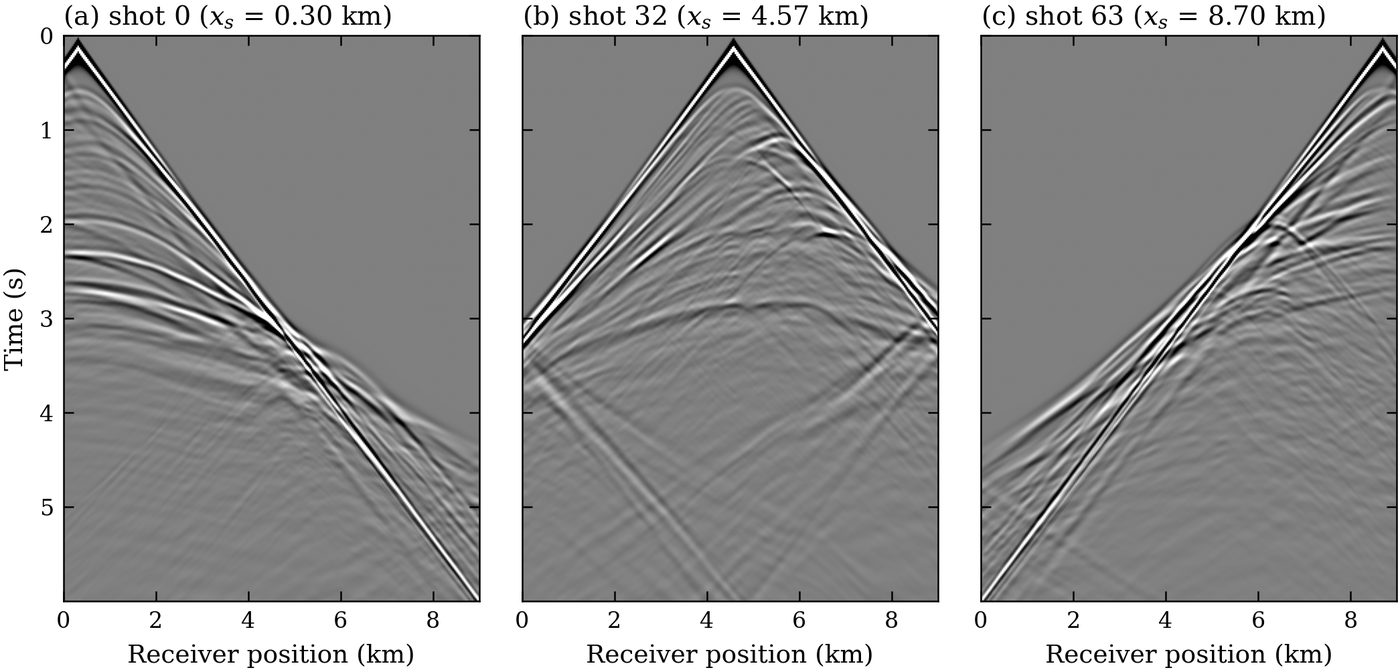
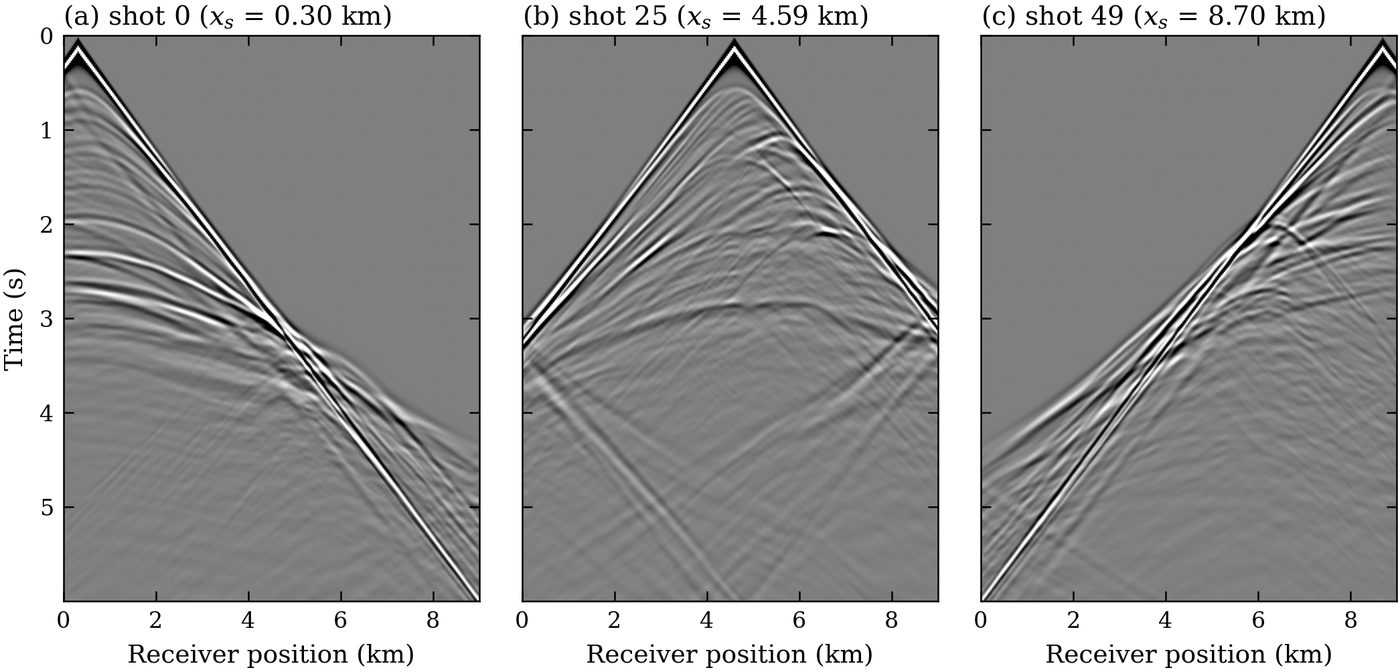
Report the completed run: Marmousi recovered from a random start
Replace the in-progress *tmp.png figures with the final ones from the
6000-epoch run (results_full/AcousticVel_L2_SIREN_random), and rewrite the
results section around what it actually shows.

    data misfit    1.3799e+04 -> 4.0559e+01   (0.29 % of initial)
    model error       177.43  ->      33.00   (81.4 % reduction)
    velocity RMSE    1.0014   ->     0.3600 km/s

Both curves fall together, so the misfit is not being reduced at the
model's expense. This retires the "not verified - convergence" caveat,
which anticipated cycle-skipping from a random start; it did not happen
here.

Adds Profiles.png, drops the tmp variants, and records the timing
breakdown: 93.7 % of the 13 h 53 m wall clock is the objective, 7.80 s
mean over 6000 calls. The Tesseract boundary does not appear in it.

Caveats now stated where the old ones were: this run used 50 shots and
6000 epochs rather than the repo default 64/3000, started from a
calibrated random SIREN, and had largely plateaued when it stopped at
its epoch budget.

diff --git a/docs/index.html b/docs/index.html
@@ -162,13 +162,15 @@ footer a{color:var(--fg-dim)}
       model; a <strong>Devito</strong> finite-difference solver with a hand-written
       adjoint-state gradient evaluates the data misfit. <code>jax.value_and_grad</code>
       differentiates straight through both — across a process, or a container, boundary.
+      A completed 6000-epoch run <a href="#results">recovers Marmousi</a> from a featureless
+      random start.
     </p>
     <div class="badges">
       <span class="badge">Marmousi 601 × 221 @ 15 m</span>
-      <span class="badge">64 shots · 300 receivers</span>
       <span class="badge">8 Hz Ricker</span>
       <span class="badge">SIREN 256×4 · ω₀ = 20</span>
       <span class="badge">198,401 weights</span>
+      <span class="badge">✓ Marmousi recovered from random</span>
     </div>
     <div class="cta">
       <a class="btn btn-primary" href="#quickstart">Quick start</a>
@@ -215,8 +217,8 @@ footer a{color:var(--fg-dim)}
       <p class="stat-label">198,401 network weights against 132,821 grid unknowns — an overparameterised reparameterisation</p>
     </div>
     <div class="card">
-      <p class="stat">~50 s</p>
-      <p class="stat-label">one composed loss + gradient, 64 workers (one per shot) on an idle 64-core box</p>
+      <p class="stat">7.80 s</p>
+      <p class="stat-label">mean per composed loss + gradient over 6000 epochs, one worker per shot</p>
     </div>
   </div>
 
@@ -362,10 +364,11 @@ make build TESSERACT=tesseract</code></pre>
   <div class="note warn">
     <span class="note-title">It is a long run</span>
     <p>
-      One loss+gradient is ~50 s with one worker per shot on an idle 64-core machine (~3 min when
-      the box is busy), so 3000 epochs is on the order of <strong>two days</strong>. Start it detached
-      and watch <code>results/*tmp.png</code>, which refresh every <code>--fig-every</code> (25) epochs.
-      <code>--maxiter</code> cuts it short if you only want to see it move.
+      One loss+gradient averaged <strong>7.8 s</strong> with one worker per shot over the completed
+      run, so 6000 epochs took <strong>13 h 53 m</strong>. On a busy box it is several times that.
+      Start it detached and watch <code>results/*tmp.png</code>, which refresh every
+      <code>--fig-every</code> (25) epochs. <code>--maxiter</code> cuts it short if you only want
+      to see it move.
     </p>
   </div>
 
@@ -388,7 +391,7 @@ cd /somewhere/else && $PY ~/anywhere/tesseract_siren_fwi/workflow.py</code></pre
 <!-- ================= PROBLEM ================= -->
 <section id="problem">
   <h2>The problem</h2>
-  <p class="sub">Exactly the reference script's configuration, unchanged.</p>
+  <p class="sub">The repo defaults, which are exactly the reference script's configuration. The completed run in <a href="#results">Results</a> varies two of them — 50 shots and 6000 epochs — and says so.</p>
 
   <div class="table-wrap">
     <table>
@@ -425,76 +428,131 @@ cd /somewhere/else && $PY ~/anywhere/tesseract_siren_fwi/workflow.py</code></pre
   <h2>Results</h2>
   <p class="sub">Figures from a live run at the full 601 × 221 configuration.</p>
 
+  <div class="note good">
+    <span class="note-title">A completed run — 6000 epochs, 13 h 53 m</span>
+    <p>
+      Marmousi is <strong>recovered from a featureless random start</strong>, with no multiscale
+      continuation and no starting-model information. Data misfit fell to
+      <strong>0.29 %</strong> of its initial value and model error by <strong>81.4 %</strong>;
+      velocity RMSE went from <strong>1.0014 → 0.3600 km/s</strong> (64 % reduction).
+    </p>
+  </div>
+
+  <div class="grid">
+    <div class="card">
+      <p class="stat">0.29 %</p>
+      <p class="stat-label">final data misfit Φ/Φ₀ — 1.3799e+04 → 4.0559e+01</p>
+    </div>
+    <div class="card">
+      <p class="stat">0.360</p>
+      <p class="stat-label">km/s final velocity RMSE, from 1.0014 at the random start</p>
+    </div>
+    <div class="card">
+      <p class="stat">81.4 %</p>
+      <p class="stat-label">model-error reduction, ‖(m − m_true)/m_true‖₂: 177.4 → 33.0</p>
+    </div>
+    <div class="card">
+      <p class="stat">7.80 s</p>
+      <p class="stat-label">mean per composed loss + gradient + VJP, n = 6000, 50 workers</p>
+    </div>
+  </div>
+
   <div class="figs">
     <figure class="fig-wide">
+      <img src="assets/InvertedVP.jpg" alt="True Marmousi model, random SIREN start, and the inverted model on a shared colorbar" loading="lazy">
+      <figcaption><b>InvertedVP.png</b> — the result. True model (a), the random SIREN start it began from (b), and the inverted model (c), on one shared colorbar. The faults, the dipping high-velocity wedge and the layer geometry are all recovered; (b) shows how little was there to begin with.</figcaption>
+    </figure>
+
+    <figure class="fig-wide">
+      <img src="assets/Loss.jpg" alt="Data misfit and model error against epoch" loading="lazy">
+      <figcaption><b>Loss.png</b> — data misfit (left, log scale) and model error (right). <b>Both fall together</b>, which is the point: the misfit is not being reduced at the model's expense. The spike near epoch 2724 is a single bad Adam step — the misfit recovers in 2 epochs, the model error in 390.</figcaption>
+    </figure>
+
+    <figure class="fig-wide">
+      <img src="assets/Profiles.jpg" alt="Vertical velocity profiles at three distances" loading="lazy">
+      <figcaption><b>Profiles.png</b> — vertical Vp profiles at three distances, the sharpest test of the result: inverted against true, trace by trace.</figcaption>
+    </figure>
+
+    <figure class="fig-wide">
+      <img src="assets/Waveform.jpg" alt="Observed versus modelled waveforms and residual" loading="lazy">
+      <figcaption><b>Waveform.png</b> — observed vs modelled wiggles and their residual at the final model.</figcaption>
+    </figure>
+
+    <figure class="fig-wide">
       <img src="assets/SirenInit.jpg" alt="True Marmousi velocity model beside the random SIREN initial model" loading="lazy">
-      <figcaption><b>SirenInit.png</b> — the true Marmousi model and the random SIREN initialisation the inversion starts from. The starting model sits at RMSE 1.057 km/s.</figcaption>
+      <figcaption><b>SirenInit.png</b> — the true model and the random SIREN initialisation (random phase, gain 8.775, seed 0, σ = 0.300 km/s), at RMSE 1.0014 km/s.</figcaption>
     </figure>
 
-    <figure class="fig-wide">
+    <figure>
       <img src="assets/Data.jpg" alt="Observed shot gathers" loading="lazy">
-      <figcaption><b>Data.png</b> — observed shot gathers, generated in ~11 s across 64 workers.</figcaption>
+      <figcaption><b>Data.png</b> — observed shot gathers, modelled in ~2.8 s across 50 workers.</figcaption>
     </figure>
 
-    <figure class="fig-wide">
+    <figure>
       <img src="assets/Gradient.jpg" alt="First gradient with respect to Vp" loading="lazy">
-      <figcaption><b>Gradient.png</b> — the first gradient w.r.t. Vp, returned by the Devito Tesseract's adjoint-state VJP and about to be chained back through the SIREN.</figcaption>
-    </figure>
-
-    <figure>
-      <img src="assets/InvertedVP.jpg" alt="True, initial and inverted velocity models" loading="lazy">
-      <figcaption><b>InvertedVPtmp.png</b> — true / random-initial / current model on one shared colorbar, refreshed live during the run.</figcaption>
-    </figure>
-
-    <figure>
-      <img src="assets/Loss.jpg" alt="Convergence curves" loading="lazy">
-      <figcaption><b>Losstmp.png</b> — data misfit and model error against epoch.</figcaption>
+      <figcaption><b>Gradient.png</b> — the first gradient w.r.t. Vp from the Devito Tesseract's adjoint-state VJP, about to be chained back through the SIREN.</figcaption>
     </figure>
 
     <figure>
       <img src="assets/GradTheta.jpg" alt="Per-layer gradient norms" loading="lazy">
-      <figcaption><b>GradThetatmp.png</b> — ‖dL/dθ‖ per SIREN layer and its history, the composed gradient after both VJPs.</figcaption>
-    </figure>
-
-    <figure>
-      <img src="assets/Waveform.jpg" alt="Observed versus modelled waveforms" loading="lazy">
-      <figcaption><b>Waveformtmp.png</b> — observed vs modelled wiggles and their residual, live.</figcaption>
+      <figcaption><b>GradTheta.png</b> — ‖dL/dθ‖ per SIREN layer and its history: the composed gradient, after both VJPs.</figcaption>
     </figure>
   </div>
 
-  <h3>What has and has not been verified</h3>
+  <h3>Where the time went</h3>
 
-  <div class="note good">
-    <span class="note-title">Verified at this scale</span>
+  <div class="table-wrap">
+    <table>
+      <thead><tr><th>Stage</th><th>Time</th><th>Share</th></tr></thead>
+      <tbody>
+        <tr><td>imports, setup, SIREN build, worker fork</td><td>10.5 s</td><td>0.0 %</td></tr>
+        <tr><td>FD engine build-up + observed data</td><td>2.8 s</td><td>0.0 %</td></tr>
+        <tr><td>first loss + gradient</td><td>13.5 s</td><td>0.0 %</td></tr>
+        <tr><td><b>inversion (Adam, 6000 epochs)</b></td><td><b>49,937 s</b></td><td><b>99.9 %</b></td></tr>
+        <tr><td>— objective (loss + gradient + VJP)</td><td>46,822 s</td><td>93.7 %</td></tr>
+        <tr><td>— callback (live figures)</td><td>1,724 s</td><td>3.4 %</td></tr>
+        <tr><td>— optimiser overhead</td><td>1,391 s</td><td>2.8 %</td></tr>
+        <tr><td>final gradient, modelling, figures, I/O</td><td>18.1 s</td><td>0.0 %</td></tr>
+        <tr><td><b>Total wall clock</b></td><td><b>49,987 s — 13 h 53 m 07 s</b></td><td>100 %</td></tr>
+      </tbody>
+    </table>
+  </div>
+
+  <p>
+    The wave solve dominates completely, as it should: 93.7 % of wall clock is inside the physics
+    Tesseract. The Tesseract boundary itself — serialising <code>theta</code> out and
+    <code>dL/dθ</code> back, 6000 times each way — does not appear in the budget.
+  </p>
+
+  <h3>Caveats worth stating</h3>
+
+  <div class="note">
+    <span class="note-title">This run's configuration</span>
     <p>
-      The pipeline starts and runs — 64 workers, one per shot; observed data in ~11 s; one
-      composed loss+gradient in ~50 s giving <code>loss 1.331e-05</code> and
-      <code>|dL/dθ| 8.93e-05</code>, over 198,401 weights against 132,821 grid unknowns (1.49×).
+      <strong>50 shots and 6000 epochs</strong>, not the 64 shots / 3000 epochs that
+      <code>make run</code> and the reference script use — and the starting model is a calibrated
+      random SIREN (gain 8.775, σ = 0.300 km/s) rather than a plain random draw. Everything else
+      is as documented above.
     </p>
   </div>
 
   <div class="note">
-    <span class="note-title">Verified on a cheaper grid</span>
+    <span class="note-title">It had largely plateaued</span>
     <p>
-      All 16 checks in <code>test_pipeline.py</code> on a decimated Marmousi used during
-      development: the composed gradient against finite differences to ~1%, the Devito adjoint
-      to 2e-5 – 4e-4 per cell, and the fully containerised <code>--served</code> path returning
-      an identical gradient. Those are properties of the code, not of the grid — but they have
-      not been re-run at full size, where <code>make test</code> costs a wave solve per check.
+      Over the final 500 epochs the misfit moved 7 % and the model error 0.58 %. The run was
+      stopped at its epoch budget, not at a convergence criterion — more epochs would buy little
+      at this frequency without multiscale continuation.
     </p>
   </div>
 
-  <div class="note warn">
-    <span class="note-title">Not verified — convergence</span>
+  <div class="note">
+    <span class="note-title">Correctness checks were run on a cheaper grid</span>
     <p>
-      No full 3000-epoch run has been completed. On the cheaper grid the misfit fell
-      monotonically while the model RMSE <em>rose</em> after a few iterations — cycle-skipping
-      from a random start, expected with no multiscale continuation, and exactly the regime the
-      reference script's 64 shots and thousands of epochs exist to escape.
-    </p>
-    <p>
-      Whether this configuration recovers Marmousi is an open question here; the reference
-      script's own results are the yardstick.
+      All 16 checks in <code>test_pipeline.py</code> pass on a decimated Marmousi used during
+      development: the composed gradient against finite differences to ~1 %, the Devito adjoint
+      to 2e-5 – 4e-4 per cell, and the fully containerised <code>--served</code> path returning an
+      identical gradient. Those are properties of the code, not of the grid — but they have not
+      been re-run at full size, where <code>make test</code> costs a wave solve per check.
     </p>
   </div>
 </section>

diff --git a/README.md b/README.md
@@ -147,9 +147,9 @@ The problem is the reference script's, unchanged: Marmousi on **601×221 at
 15 m, 64 shots, 300 receivers, 8 Hz**, SIREN **256×4** at omega_0 20, Adam at
 **1.5e-4 for 3000 epochs** with 50 warmup steps. `make run` is exactly that.
 
-**It is a long run.** One loss+gradient is ~50 s with one worker per shot on an
-idle 64-core machine (~3 min when the box is busy), so 3000 epochs is on the
-order of two days. Start it detached:
+**It is a long run.** One loss+gradient averaged 7.8 s with one worker per shot
+over the completed run, so 6000 epochs took ~14 hours; on a busy box it is
+several times that. Start it detached:
 
 ```bash
 nohup $PY workflow.py > run.out 2>&1 &
@@ -189,27 +189,38 @@ Throttles: `--fig-every` (live figures), `--wiggle-every` / `--wiggle-shot` /
 `--wiggle-tmax` (live waveforms), `--snap-every` (movie frames),
 `--no-figures` to skip all of it.
 
-### What has and has not been verified
+### Results — a completed run
 
-**Verified at this scale**: the pipeline starts and runs — 64 workers, one per
-shot; observed data in ~11 s; one composed loss+gradient in ~50 s giving
-`loss 1.331e-05` and `|dL/dθ| 8.93e-05`, over 198,401 weights against 132,821
-grid unknowns (1.49×). The starting model sits at RMSE 1.057 km/s.
+**Marmousi is recovered from a featureless random start**, with no multiscale
+continuation and no starting-model information. 6000 Adam epochs, 13 h 53 m
+wall clock:
 
-**Verified on a cheaper grid** (a decimated Marmousi used during development,
-now removed): all 16 checks in `test_pipeline.py`, including the composed
+| | initial | final |
+|---|---|---|
+| data misfit Φ | 1.3799e+04 | 4.0559e+01 — **0.29 % of initial** |
+| model error ‖(m−m_true)/m_true‖₂ | 177.43 | 33.00 — **81.4 % reduction** |
+| velocity RMSE | 1.0014 km/s | **0.3600 km/s** — 64 % reduction |
+
+Both curves fall together, which is the point — the misfit is not being reduced
+at the model's expense. See `Loss.png` and `InvertedVP.png`; the faults, the
+dipping high-velocity wedge and the layer geometry are all recovered.
+
+Timing: 93.7 % of wall clock is the objective (loss + gradient + VJP), 7.80 s
+mean over 6000 calls with 50 workers. The Tesseract boundary itself — `theta`
+out and `dL/dθ` back, 6000 times each way — does not show up in the budget.
+
+**Caveats.** This run used **50 shots and 6000 epochs**, not the 64 / 3000 that
+`make run` and the reference script use, and started from a calibrated random
+SIREN (gain 8.775, σ 0.300 km/s). It had largely plateaued — over the final 500
+epochs the misfit moved 7 % and the model error 0.58 % — and was stopped at its
+epoch budget, not at a convergence criterion.
+
+**Correctness checks were run on a cheaper grid** (a decimated Marmousi used
+during development): all 16 checks in `test_pipeline.py`, including the composed
 gradient against finite differences to ~1%, the Devito adjoint to 2e-5–4e-4 per
 cell, and the fully containerised `--served` path returning an identical
 gradient. Those are properties of the code, not of the grid, but they have not
-been re-run here — `make test` at this size costs a wave solve per check.
-
-**Not verified**: convergence. No full 3000-epoch run has been completed. On
-the cheaper grid the misfit fell monotonically while the model RMSE rose after
-a few iterations — cycle-skipping from a random start, expected with no
-multiscale continuation, and exactly the regime the reference script's 64 shots
-and thousands of epochs exist to escape. Whether this configuration recovers
-Marmousi is an open question here; the reference script's own results are the
-yardstick.
+been re-run at full size — `make test` there costs a wave solve per check.
 
 ## Verifying the gradient
 
